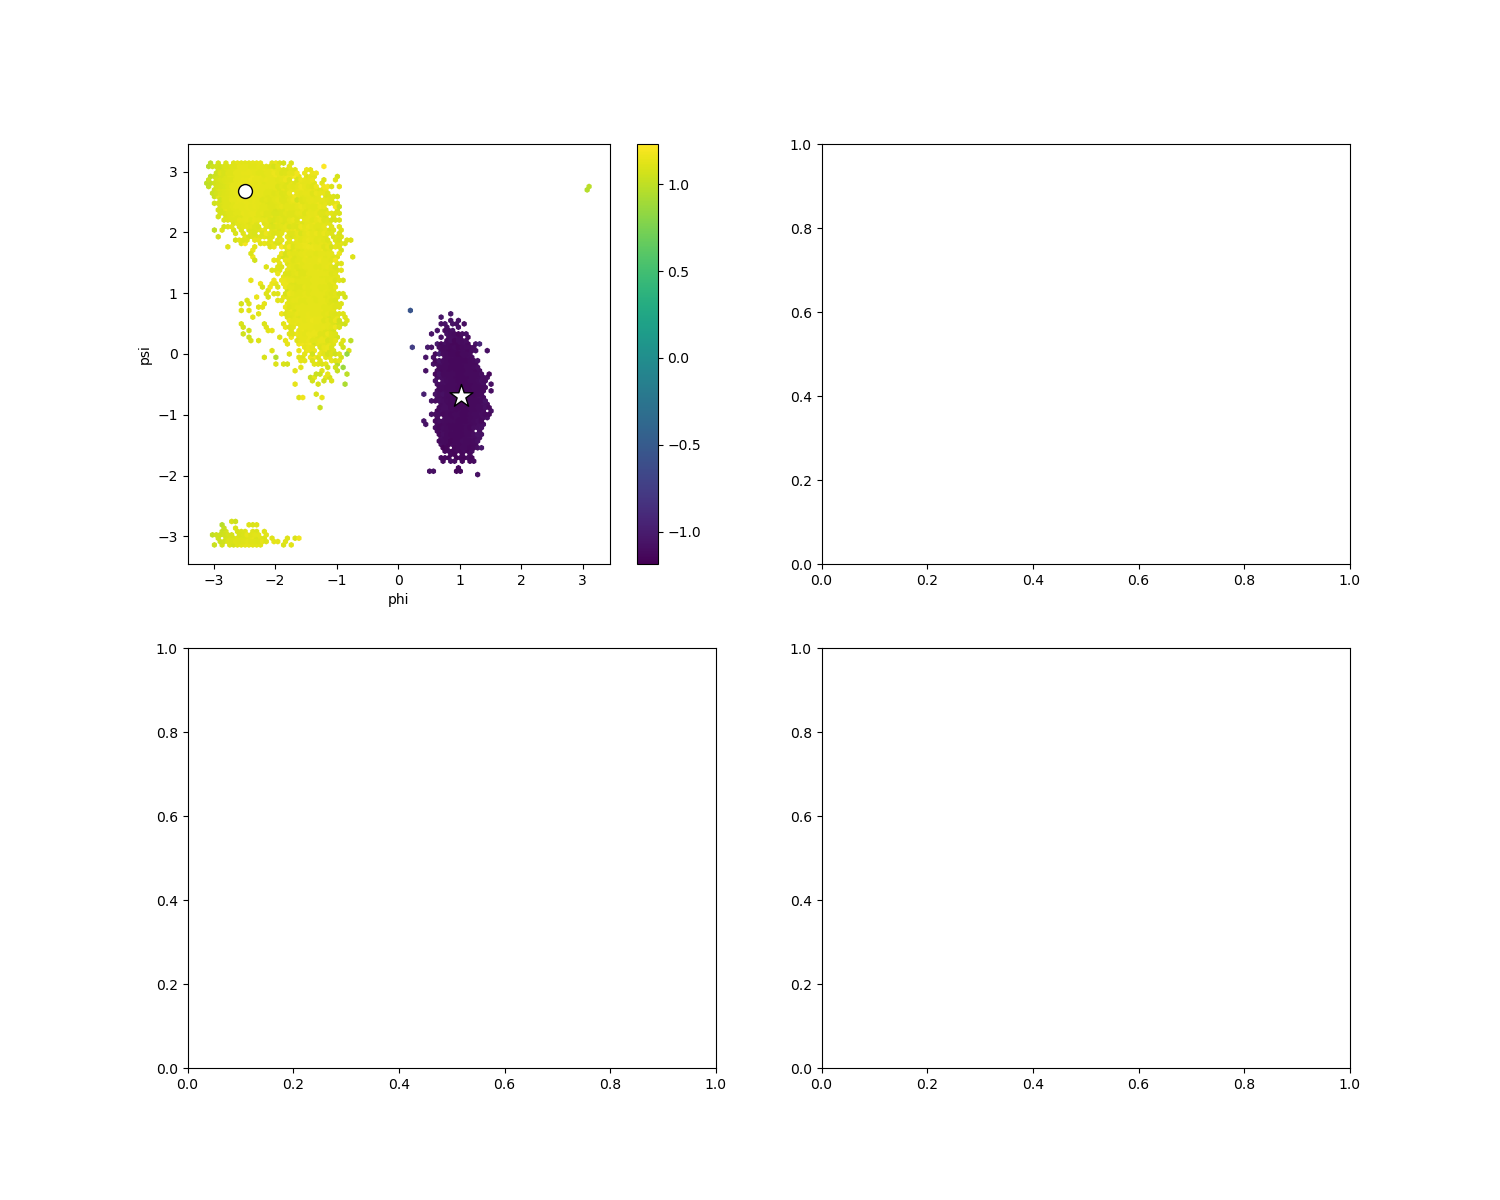
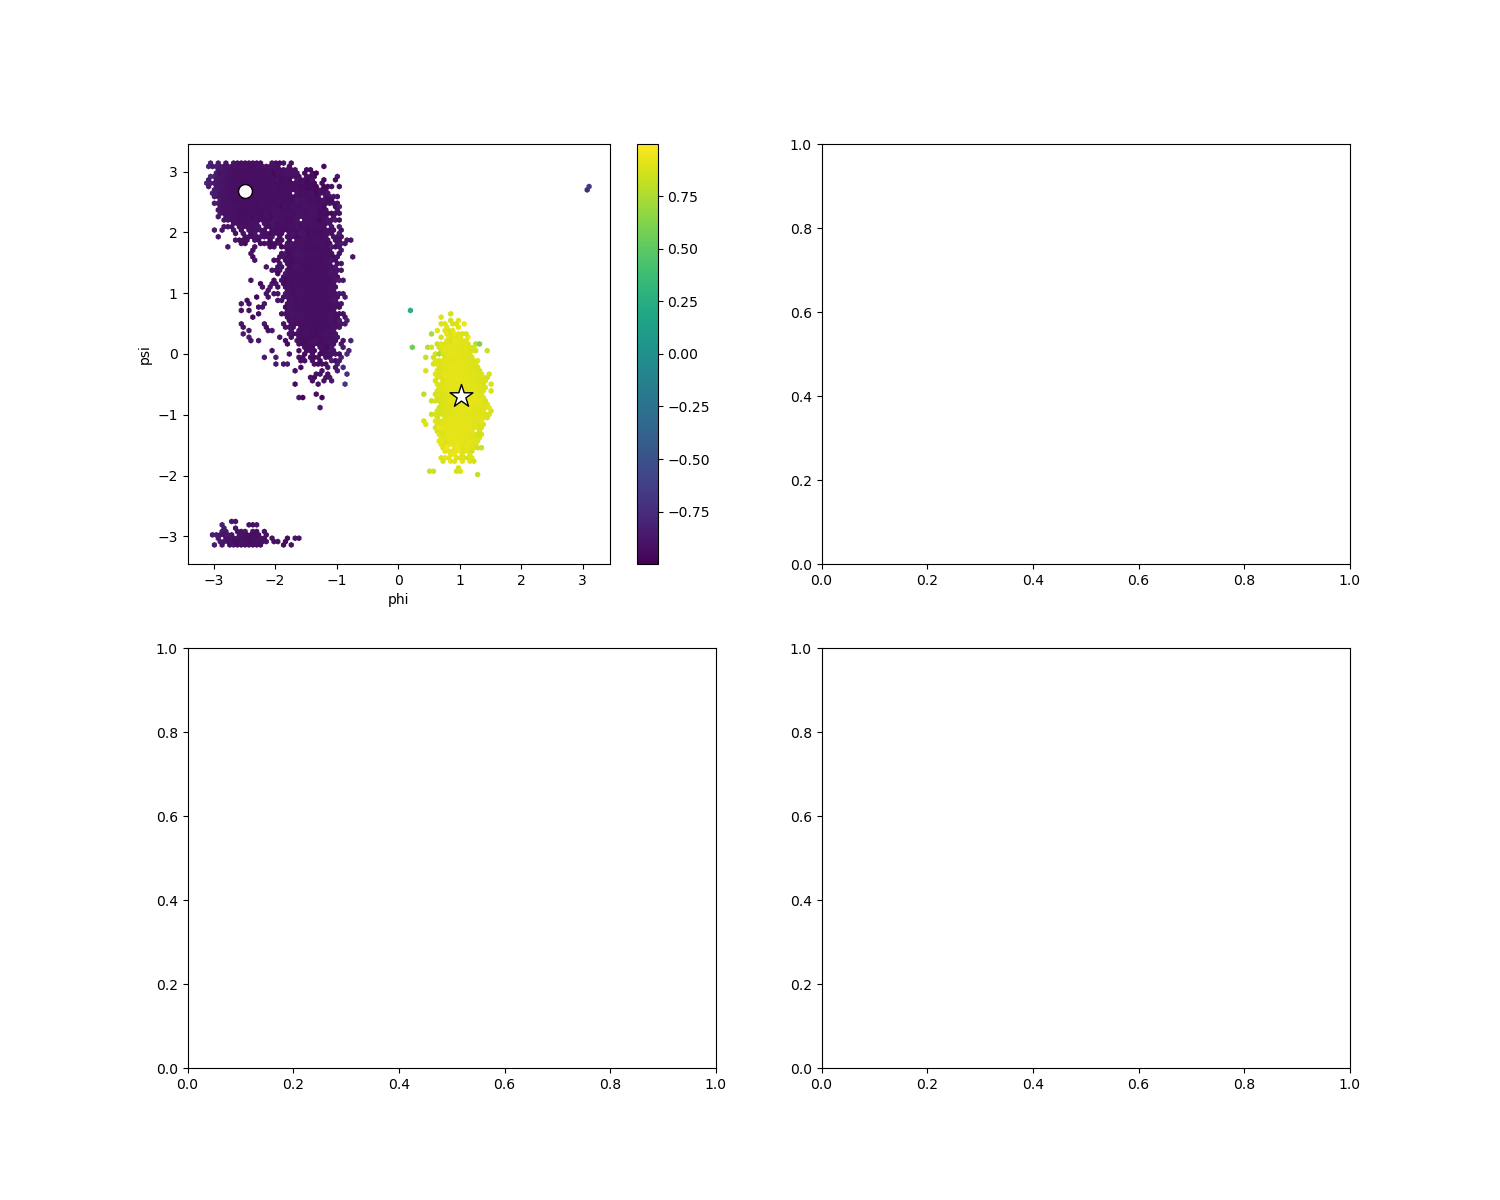
upd - normalization in model

diff --git a/src/model.py b/src/model.py
@@ -6,13 +6,12 @@ from torch.optim import Adam
 
 from typing import Optional
 
-from mlcolvar.cvs import BaseCV, DeepTICA, AutoEncoderCV, VariationalAutoEncoderCV
+from mlcolvar.cvs import BaseCV, DeepLDA, DeepTDA, DeepTICA, AutoEncoderCV, VariationalAutoEncoderCV
 from mlcolvar.core import FeedForward, Normalization
 from mlcolvar.core.loss.elbo import elbo_gaussians_loss
 
 
-
-class DeepTICA(DeepTICA):
+class DeepLDA(DeepLDA):
     def __init__(
         self,
         *args,
@@ -20,9 +19,18 @@ class DeepTICA(DeepTICA):
     ):
         super().__init__(*args, **kwargs)
         self.cv_normalize = False
-        self.cv_min = 0
-        self.cv_max = 1
     
+    def set_cv_range(self, cv_min, cv_max, cv_std):
+        self.cv_normalize = True
+        self.cv_min = cv_min
+        self.cv_max = cv_max
+        self.cv_std = cv_std
+
+    def _map_range(self, x):
+        out_max = 1
+        out_min = -1
+        return (x - self.cv_min) * (out_max - out_min) / (self.cv_max - self.cv_min) + out_min
+
     def forward_cv(self, x: torch.Tensor) -> torch.Tensor:
         for b in self.BLOCKS:
             block = getattr(self, b)
@@ -34,21 +42,68 @@ class DeepTICA(DeepTICA):
             
         return x
 
-    def set_cv_range(self, cv_min, cv_max):
+
+class DeepTDA(DeepTDA):
+    def __init__(self, *args, **kwargs):
+        super().__init__(*args, **kwargs)
+        self.cv_normalize = False
+        
+    def set_cv_range(self, cv_min, cv_max, cv_std):
         self.cv_normalize = True
         self.cv_min = cv_min
         self.cv_max = cv_max
+        self.cv_std = cv_std
 
     def _map_range(self, x):
         out_max = 1
         out_min = -1
         return (x - self.cv_min) * (out_max - out_min) / (self.cv_max - self.cv_min) + out_min
 
+    def forward_cv(self, x: torch.Tensor) -> torch.Tensor:
+        for b in self.BLOCKS:
+            block = getattr(self, b)
+            if block is not None:
+                x = block(x)
+
+        if self.cv_normalize:
+            x = self._map_range(x)
+            
+        return x
+
+
+class DeepTICA(DeepTICA):
+    def __init__(self, *args, **kwargs):
+        super().__init__(*args, **kwargs)
+        self.cv_normalize = False
+
+    def set_cv_range(self, cv_min, cv_max, cv_std):
+        self.cv_normalize = True
+        self.cv_min = cv_min
+        self.cv_max = cv_max
+        self.cv_std = cv_std
+
+    def _map_range(self, x):
+        out_max = 1
+        out_min = -1
+        return (x - self.cv_min) * (out_max - out_min) / (self.cv_max - self.cv_min) + out_min
+        
+    def forward_cv(self, x: torch.Tensor) -> torch.Tensor:
+        for b in self.BLOCKS:
+            block = getattr(self, b)
+            if block is not None:
+                x = block(x)
+
+        if self.cv_normalize:
+            x = self._map_range(x)
+            
+        return x
+
 
 class AutoEncoderCV(AutoEncoderCV):
     def __init__(self, *args, **kwargs):
         super().__init__(*args, **kwargs)
         self.optimizer = Adam(self.parameters(), lr=1e-3)
+        self.cv_normalize = False
 
     def optimizer_step(
         self,
@@ -62,6 +117,27 @@ class AutoEncoderCV(AutoEncoderCV):
 
     def backward(self, loss):
         loss.backward(retain_graph=True)
+    
+    def forward_cv(self, x: torch.Tensor) -> torch.Tensor:
+        if self.norm_in is not None:
+            x = self.norm_in(x)
+        x = self.encoder(x)
+        
+        if self.cv_normalize:
+            x = self._map_range(x)
+        return x
+    
+    def set_cv_range(self, cv_min, cv_max, cv_std):
+        self.cv_normalize = True
+        self.cv_min = cv_min
+        self.cv_max = cv_max
+        self.cv_std = cv_std
+
+    def _map_range(self, x):
+        out_max = 1
+        out_min = -1
+        return (x - self.cv_min) * (out_max - out_min) / (self.cv_max - self.cv_min) + out_min
+
         
 class VDELoss(torch.nn.Module):
     def forward(
@@ -100,6 +176,7 @@ class VariationalDynamicsEncoder(VariationalAutoEncoderCV):
         # ELBO loss function when latent space and reconstruction distributions are Gaussians.
         self.loss_fn = VDELoss()
         self.optimizer = Adam(self.parameters(), lr=1e-4)
+        self.cv_normalize = False
     
     def training_step(
         self,
@@ -140,6 +217,26 @@ class VariationalDynamicsEncoder(VariationalAutoEncoderCV):
         self.log(f"{name}_loss", loss, on_epoch=True)
 
         return loss
+
+    def forward_cv(self, x: torch.Tensor) -> torch.Tensor:
+        if self.norm_in is not None:
+            x = self.norm_in(x)
+        x = self.encoder(x)
+        
+        if self.cv_normalize:
+            x = self._map_range(x)
+        return x
+    
+    def set_cv_range(self, cv_min, cv_max, cv_std):
+        self.cv_normalize = True
+        self.cv_min = cv_min
+        self.cv_max = cv_max
+        self.cv_std = cv_std
+
+    def _map_range(self, x):
+        out_max = 1
+        out_min = -1
+        return (x - self.cv_min) * (out_max - out_min) / (self.cv_max - self.cv_min) + out_min
 
 
 class CLCV(BaseCV, lightning.LightningModule):
@@ -184,9 +281,10 @@ class CLCV(BaseCV, lightning.LightningModule):
             x = self.map_range(x)
         return x
 
-    def set_cv_range(self, cv_min, cv_max):
+    def set_cv_range(self, cv_min, cv_max, cv_std):
         self.cv_min = cv_min
         self.cv_max = cv_max
+        self.cv_std = cv_std
 
     def map_range(self, x):
         out_max = 1

diff --git a/src/plot.py b/src/plot.py
@@ -15,7 +15,7 @@ from .util import compute_dihedral_torch
 
 ALDP_PHI_ANGLE = [4, 6, 8, 14]
 ALDP_PSI_ANGLE = [6, 8, 14, 16]
-
+MODEL_NAME = ["clcv", "deeplda", "deeptda", "deeptica", "autoencoder", "timelagged-autoencoder", "vde"]
 
 def map_range(x, in_min, in_max):
     out_max = 1
@@ -55,15 +55,13 @@ def plot_ad_cv(
     cv_list = torch.stack(cv_list)
     
     # Scaling for some cases
-    print(f"CV range: {cv_list.min()} ~ {cv_list.max()}")
-    if cfg.name == "deeptda":
-        cv_list = cv_list / cfg.output_scale
-    elif cfg.name in ["autoencoder", "timelagged-autoencoder", "vde"]:
-        cv_list = map_range(cv_list, cv_list.min(), cv_list.max())
-    elif cfg.name in ["clcv", "deeptica"]:
-        model.set_cv_range(cv_list.min(), cv_list.max())
+    print(f"CV range: {cv_list.min(dim=0)[0]} ~ {cv_list.max(dim=0)[0]}")
+    if cfg.name in MODEL_NAME:
+        model.set_cv_range(cv_list.min(dim=0)[0], cv_list.max(dim=0)[0], cv_list.std(dim=0)[0])
         cv_list = model(projection_dataset)
-    print(f"CV normalized range: {cv_list.min()} ~ {cv_list.max()}")
+    else:
+        raise ValueError(f"Model {cfg.name} not found")
+    print(f"CV normalized range: {cv_list.min(dim=0)[0]} ~ {cv_list.max(dim=0)[0]}")
         
     df = pd.DataFrame({
         **{f'CV{i}': cv_list[:, i].detach().cpu().numpy() for i in range(cv_dim)},

diff --git a/src/load.py b/src/load.py
@@ -4,12 +4,12 @@ import wandb
 from torch import optim
 from omegaconf import OmegaConf
 
-from mlcolvar.cvs import DeepLDA, DeepTDA
+# from mlcolvar.cvs import DeepTDA
 from mlcolvar.data import DictDataset, DictModule
 
 from .util import *
 from .dataset import *
-from .model import DeepTICA, CLCV, AutoEncoderCV, VariationalDynamicsEncoder
+from .model import *
 
 
 model_dict = {
@@ -36,9 +36,6 @@ def load_model(cfg):
             options = {'nn': {'activation': 'tanh'} }
         )
     
-    elif cfg.name in model_dict:
-        model = model_dict[cfg.name](**cfg.model)
-    
     elif cfg.name == "gnncv-tica":
         import mlcolvar.graph as mg
         mg.utils.torch_tools.set_default_dtype('float32')
@@ -59,6 +56,9 @@ def load_model(cfg):
             model_options=dict(cfg.model),
             optimizer_options=optimizer_options,
         )
+    
+    elif cfg.name in model_dict:
+        model = model_dict[cfg.name](**cfg.model)
     
     else:
         raise ValueError(f"Model {cfg.name} not found")

diff --git a/main.py b/main.py
@@ -30,7 +30,7 @@ def main(cfg):
     datamodule = load_data(cfg)
     
     # train
-    logger.info(">> Training")
+    logger.info(">> Training...")
     metrics = MetricsCallback()
     early_stopping = EarlyStopping(**cfg.trainer.early_stopping)
     trainer = lightning.Trainer(
@@ -40,9 +40,12 @@ def main(cfg):
         enable_checkpointing=False
     )
     trainer.fit(model, datamodule)
-    logger.info("Training complete")
+    logger.info(">> Training complete")
     
     # Save model
+    model.eval()
+    logger.info("")
+    logger.info(">> Saving models")
     checkpoint_path = f"./model/{cfg.name}/{cfg.data.version}"
     if not os.path.exists(f"./model/{cfg.name}"):
         os.makedirs(f"./model/{cfg.name}")
@@ -56,6 +59,7 @@ def main(cfg):
     logger.info(f"Model saved at {checkpoint_path}")
     
     # Plot CVs
+    logger.info(">> Plotting CVs...")
     plot_ad_cv(
         cfg = cfg,
         model = model,
